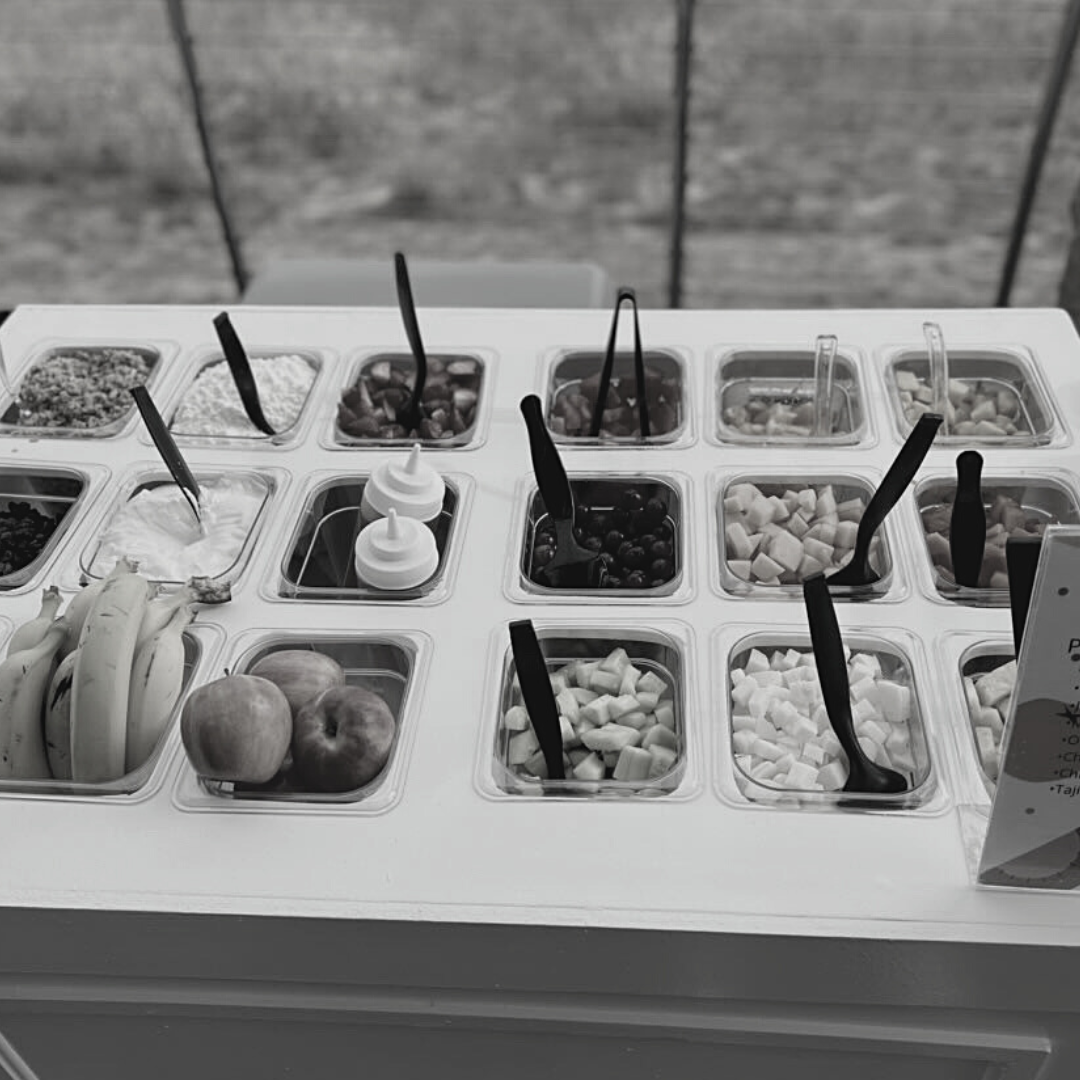
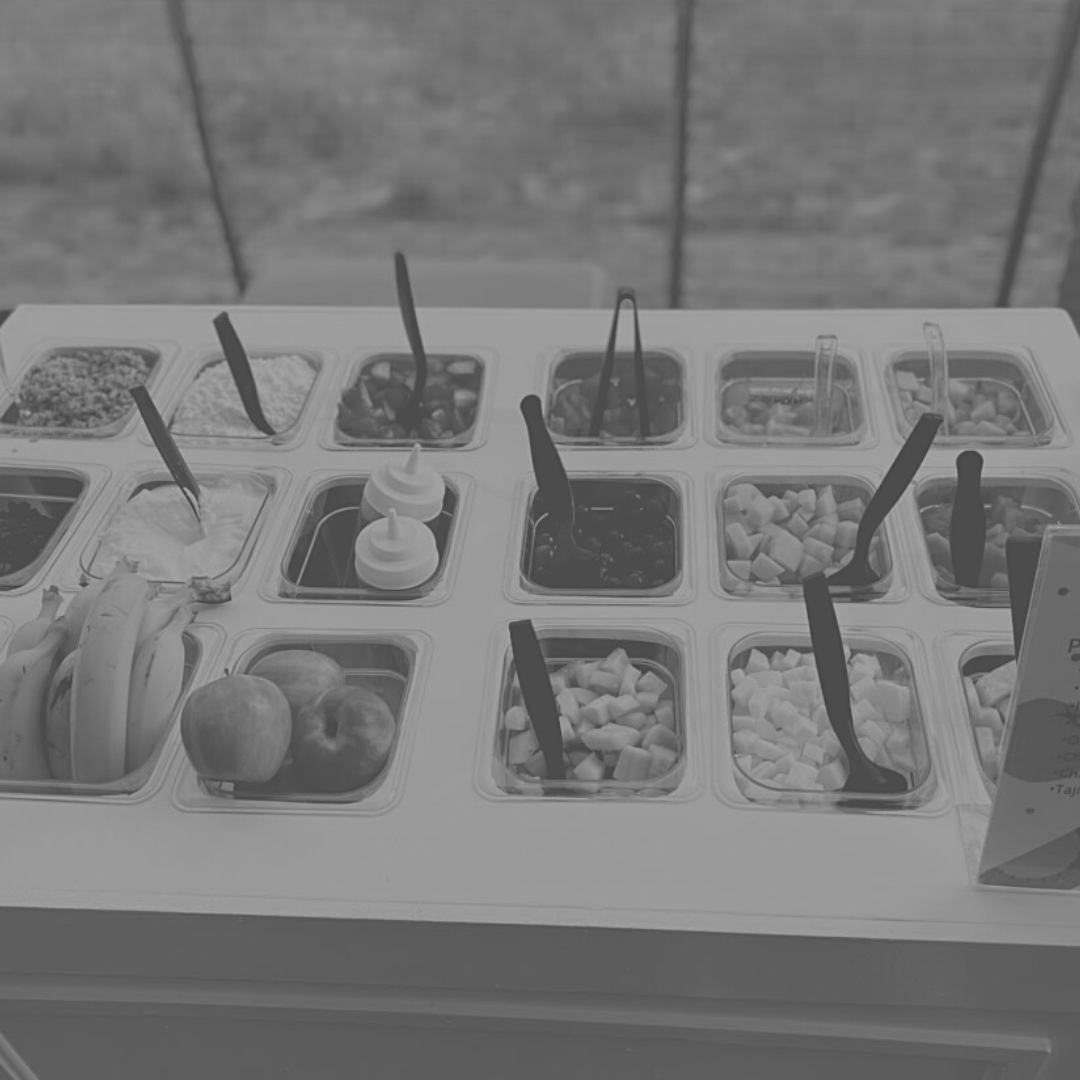
style: updated section images for better contrast

diff --git a/index.html b/index.html
@@ -117,10 +117,6 @@
   </div>
 </div>
 </span>
-
-
-
-
         <section>
         <div class="container" id = "services">
       <div class="card" style ="max-width: 40rem;" id= "services">
@@ -139,13 +135,13 @@
             colors="primary:#16c79e,secondary:#2ca58d,tertiary:#92140c">
         </lord-icon>
 
-        </lord-icon> Our orders include special additions for an additional cost</li>
+        </lord-icon> Special additions for a supplementary cost</li>
           <br>
          <li> <script src="https://cdn.lordicon.com/qjzruarw.js"></script>
           <lord-icon
               src="https://cdn.lordicon.com/tafnmaar.json"
               trigger="loop" >
-          </lord-icon> We have a ready menu for you to choose from daily</li>
+          </lord-icon> We have a daily ready menu</li>
          <br>
           <li><lord-icon
             src="https://cdn.lordicon.com/ksfmqvvu.json"
@@ -239,10 +235,11 @@
 </div>
 </section>
 
-<img src="images/note-to-customers.png" alt = "note-to-customer" class = "img-fluid" id = "note-customer">
+
 
 <section id = "custom-desserts">
 <h1 class = mb-5>Custom Menu</h1>
+
      <div class="container">
       <div class="row">
         <div class="col-sm-4 mb-3">
@@ -332,6 +329,7 @@
 <section id = "events">
     <div class="container">
      <div class="card" style ="max-width: 40rem;" id ="services">
+      <span id = "events-card-font">
       <h1 class = "mt-5">We Cater</h1>
         <ul class = "order">
           <li>🍿 Snack Bar</li>
@@ -351,6 +349,7 @@
            <li>Please contact us for a price estimate which is determined by numbers of guests and location
           </li>
            </ul>
+          </span>
        </div>
       </div>
 </section>
@@ -358,6 +357,7 @@
 
 <section id = "contact-us">
  <h1 id = "contact-h1"> We are looking forward to your order...</h1>
+ <img src="images/note-to-customers.png" alt = "note-to-customer" class = "img-fluid" id = "note-customer">
 <div class="row contact">
         <div class="col-sm-1"></div>
         <div class="col-sm-10">

diff --git a/src/style.css b/src/style.css
@@ -276,6 +276,7 @@ body{
 section {
   background-image: url(/images/section1.png);
   background-size: cover;
+  background-position: center;
   display: block;
 }
 
@@ -292,6 +293,10 @@ section {
 
 }
 
+#events-card-font{
+  color: white;
+}
+
 #ready-menu{
   background-image:none;
   text-align: center;
@@ -304,6 +309,10 @@ section {
 
 #custom-desserts{
   margin-top: 80px;
+  background-image: url(/images/section3.png);
+  background-size:cover ;
+  background-position: center;
+  display: block;
 
 }
 
@@ -334,8 +343,8 @@ img {
   padding-right: 30px;
   font-size: 30px;
   font-weight: 800;
-  color: #ffffff;
-  text-shadow: 1px 1px #000000;
+  color: #050505;
+  text-shadow: 1px 1px #cda2a3;
   font-family: "Nunito", sans-serif;
 }
 
